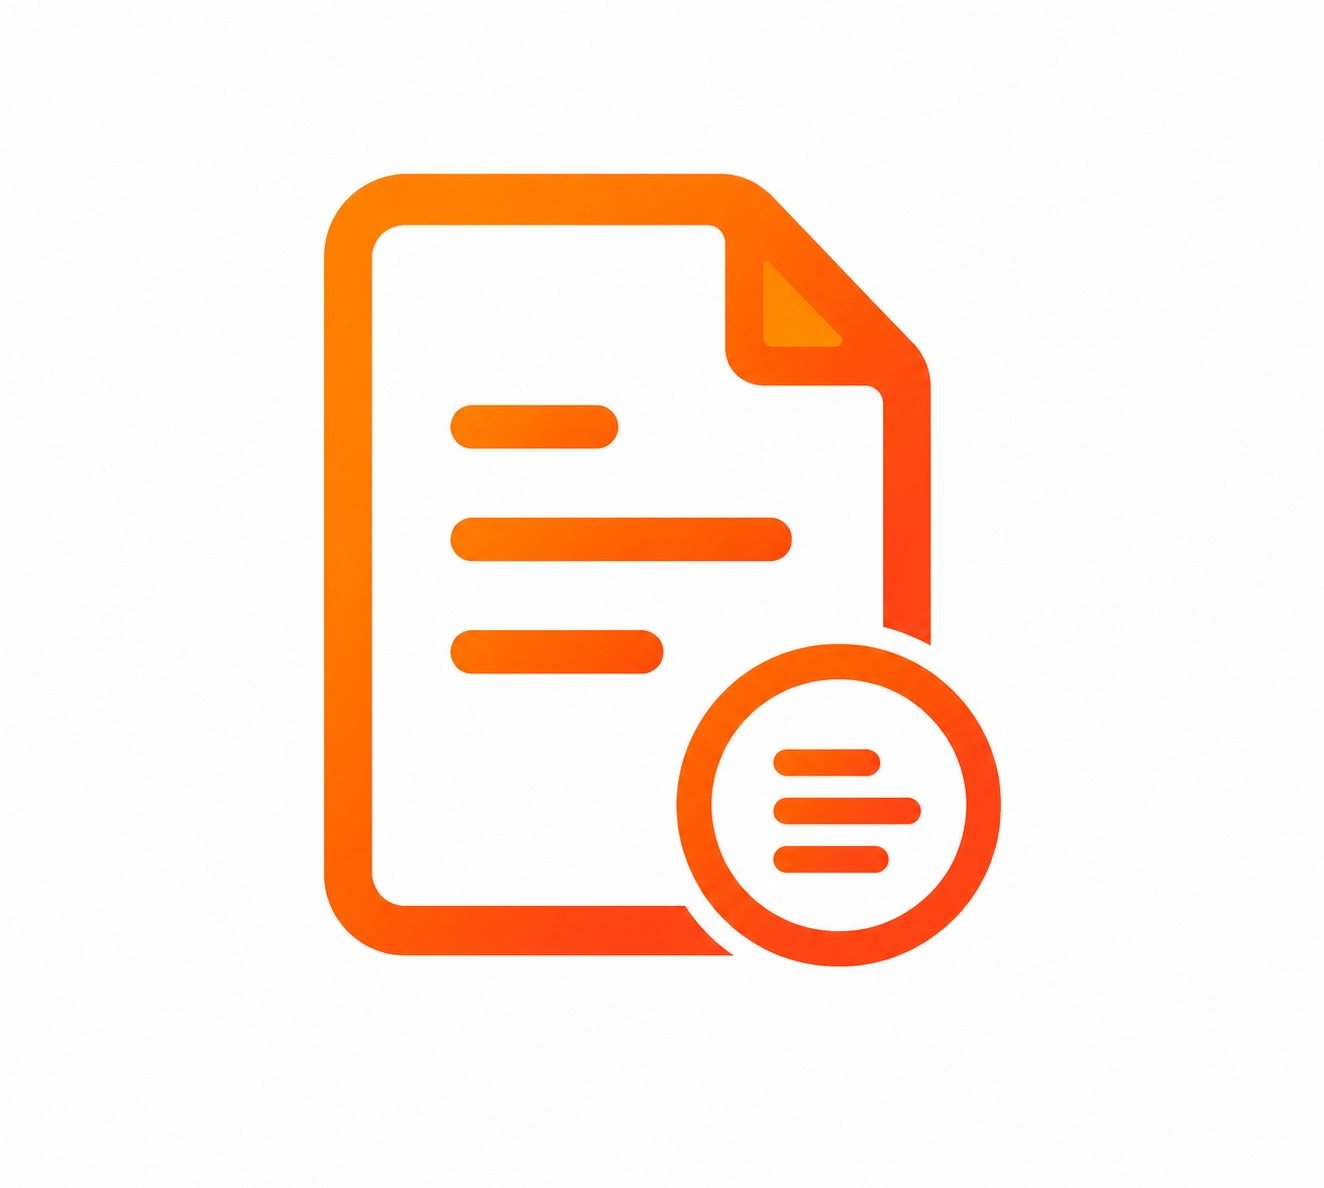
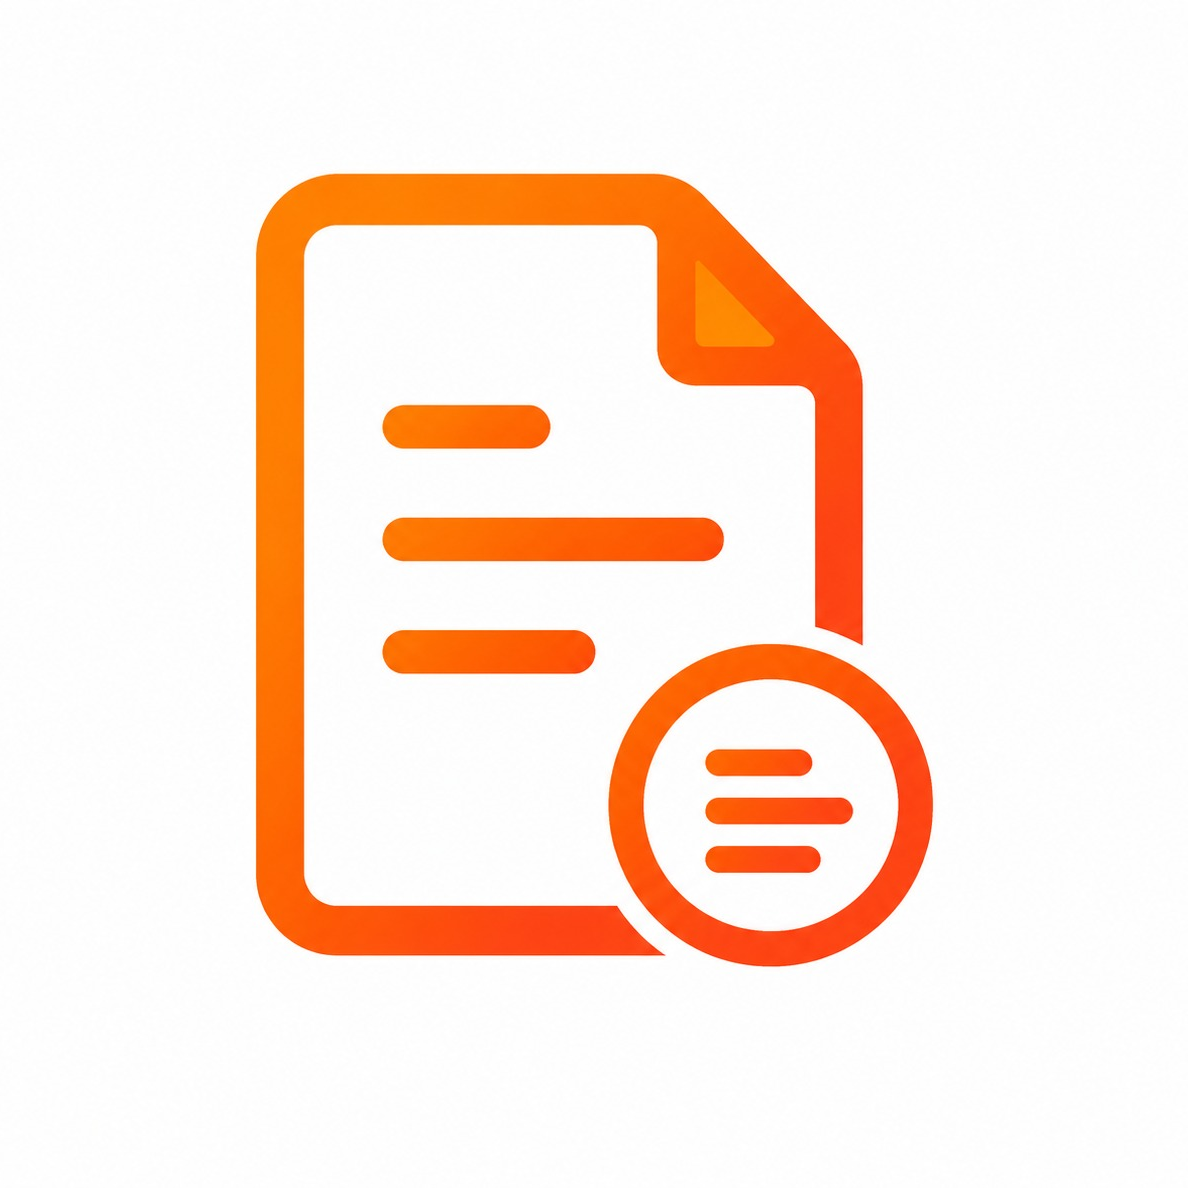
[UPDATE]~:Index

diff --git a/stock_auto_credit_note/static/description/index.html b/stock_auto_credit_note/static/description/index.html
@@ -14,6 +14,8 @@
 .o_dvija_sacn .o_dvija_tech_name{background:#F0F0F0;border-radius:3px;padding:1px 8px;font-family:monospace}
 </style>
 
+<img src="banner.jpg" alt="Auto Create Credit Note on Return Delivery" class="img-fluid rounded o_dvija_section" style="width:100%">
+
 <!-- HEADER -->
 <div class="row align-items-center o_dvija_section">
   <div class="col-md-2 col-3 text-center">
@@ -24,8 +26,6 @@
     <p class="text-muted mb-0">by <a href="https://www.dvijatechnologies.com" target="_blank" rel="noopener">dvija Technologies</a> &nbsp;·&nbsp; Odoo 19 &nbsp;·&nbsp; LGPL-3</p>
   </div>
 </div>
-
-<img src="banner.jpg" alt="Auto Create Credit Note on Return Delivery" class="img-fluid rounded o_dvija_section" style="width:100%">
 
 <!-- OVERVIEW -->
 <div class="o_dvija_section">
@@ -113,7 +113,6 @@
       <tr><td class="text-muted" style="width:200px">Odoo Dependencies</td><td>Sales (<span class="o_dvija_tech_name">sale_stock</span>), Invoicing (<span class="o_dvija_tech_name">account</span>), Inventory (<span class="o_dvija_tech_name">stock</span>)</td></tr>
       <tr><td class="text-muted">Technical Name</td><td><span class="o_dvija_tech_name">stock_auto_credit_note</span></td></tr>
       <tr><td class="text-muted">License</td><td>LGPL-3</td></tr>
-      <tr><td class="text-muted">Website</td><td><a href="https://www.dvijatechnologies.com" target="_blank" rel="noopener">www.dvijatechnologies.com</a></td></tr>
     </tbody>
   </table>
 </div>
@@ -122,21 +121,14 @@
 <div class="o_dvija_section">
   <h2 class="o_dvija_h2">Support</h2>
   <div class="row">
-    <div class="col-md-4 col-12 mb-3">
+    <div class="col-md-6 col-12 mb-3">
       <div class="o_dvija_card text-center">
         <h3 class="h6">Email Support</h3>
         <p class="small text-muted mb-1">Send your questions directly to our team.</p>
         <a href="mailto:sales@dvijatechnologies.com">sales@dvijatechnologies.com</a>
       </div>
     </div>
-    <div class="col-md-4 col-12 mb-3">
-      <div class="o_dvija_card text-center">
-        <h3 class="h6">Website</h3>
-        <p class="small text-muted mb-1">More modules, services &amp; documentation.</p>
-        <a href="https://www.dvijatechnologies.com" target="_blank" rel="noopener">www.dvijatechnologies.com</a>
-      </div>
-    </div>
-    <div class="col-md-4 col-12 mb-3">
+    <div class="col-md-6 col-12 mb-3">
       <div class="o_dvija_card text-center">
         <h3 class="h6">Response Time</h3>
         <p class="small text-muted mb-0">We respond within <strong>24 hours</strong> on business days.</p>
@@ -209,7 +201,7 @@ For complete license text see: https://www.gnu.org/licenses/lgpl-3.0.html</div>
 
 <!-- FOOTER -->
 <div class="text-center text-muted small pt-3" style="border-top:1px solid #E0E0E0">
-  <strong>dvija Technologies</strong> &nbsp;·&nbsp; <a href="https://www.dvijatechnologies.com" target="_blank" rel="noopener">Website</a> &nbsp;·&nbsp; <a href="mailto:sales@dvijatechnologies.com">sales@dvijatechnologies.com</a> &nbsp;·&nbsp; © 2025 All rights reserved &nbsp;·&nbsp; LGPL-3 License
+  <strong>dvija Technologies</strong> &nbsp;·&nbsp; <a href="mailto:sales@dvijatechnologies.com">sales@dvijatechnologies.com</a> &nbsp;·&nbsp; © 2025 All rights reserved &nbsp;·&nbsp; LGPL-3 License
 </div>
 
 </section>

diff --git a/stock_auto_credit_note/__manifest__.py b/stock_auto_credit_note/__manifest__.py
@@ -24,6 +24,7 @@ Features:
 - Invoice smart button on the original delivery shows linked invoices.
     """,
     'author': 'Dvija Technologies',
+    'images': ['static/description/banner.jpg'],
     'depends': ['stock', 'account', 'sale_stock'],
     'data': [
         'security/ir.model.access.csv',
